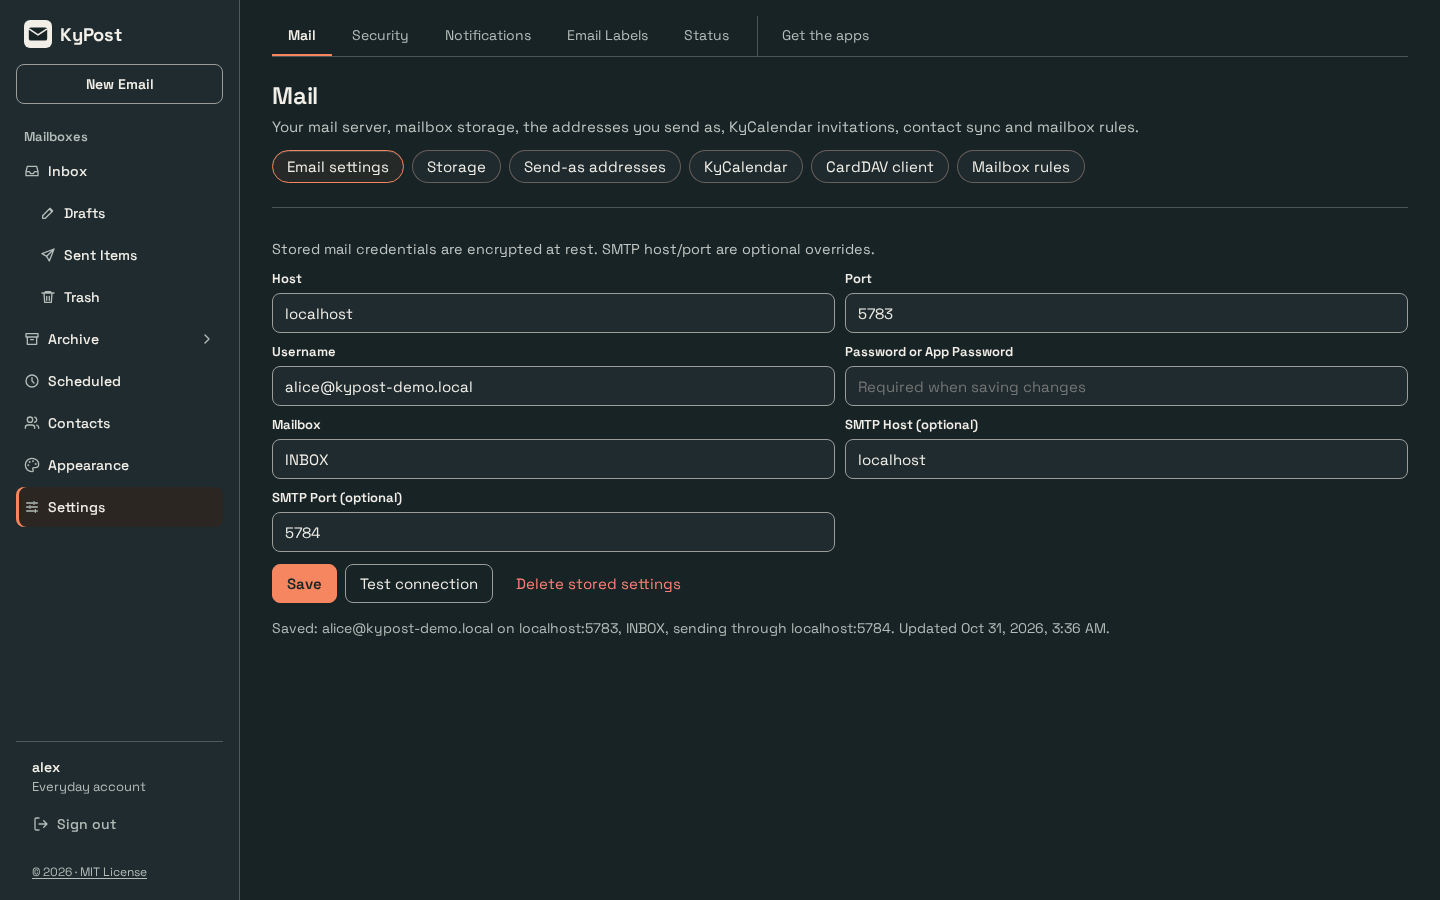
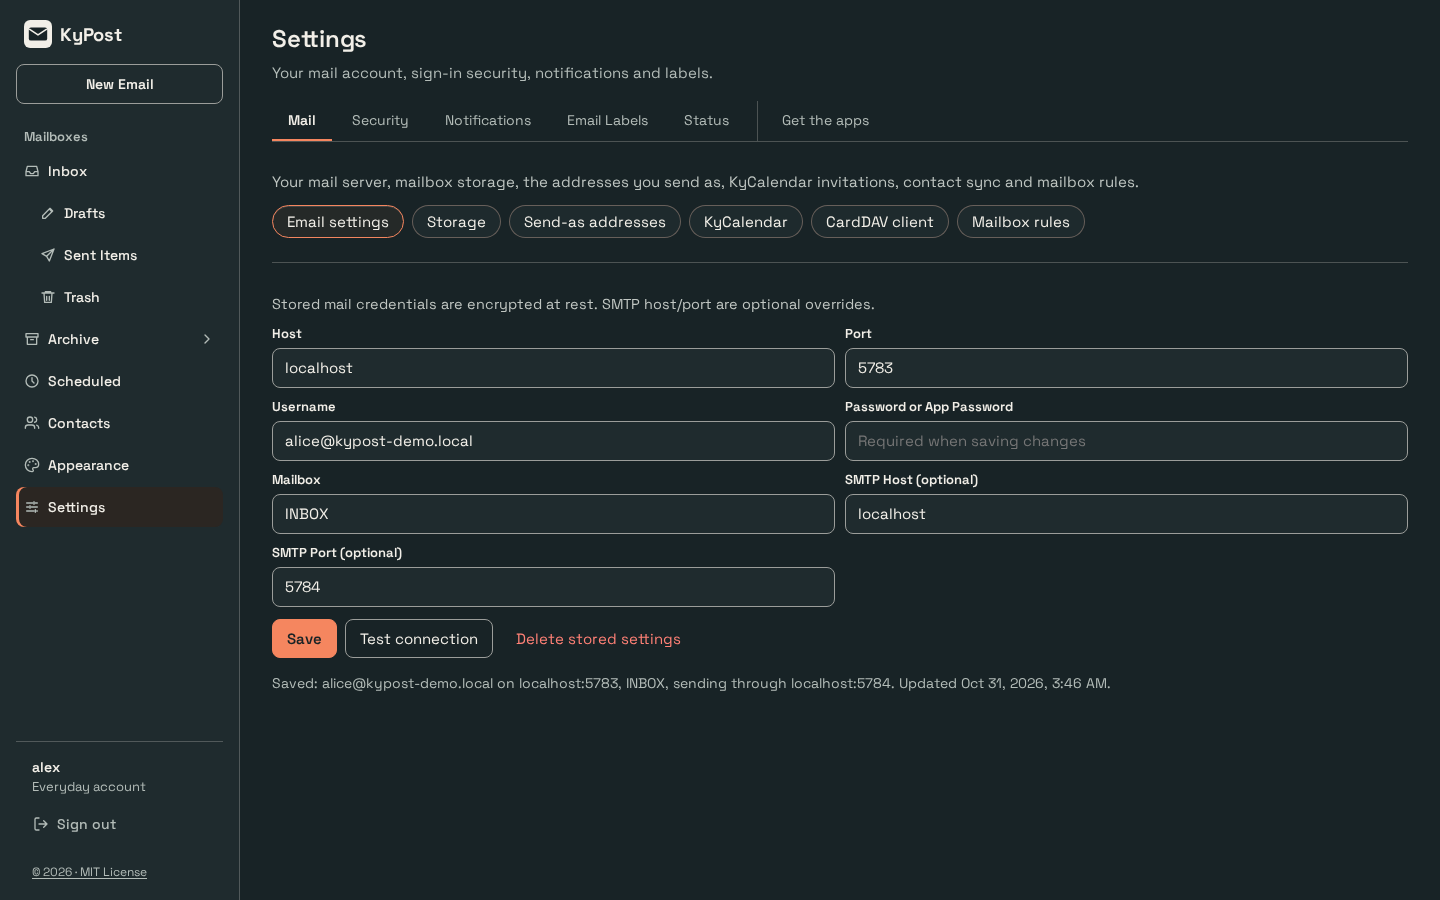
fix(ui): Settings opens with the shared page head
"Settings" and one line sit at the top like every page, then the
section tabs, then the panel. Panels name themselves with a visually
hidden h2, so "Mail" is no longer repeated. The reader's "Sender"
label drops its colon. Recaptured.

Changed region(s): [[0.1875, 0.0311, 0.7812, 0.7778], [0.5625, 0.0311, 0.5938, 0.0622]]

diff --git a/frontend/src/App.tsx b/frontend/src/App.tsx
@@ -518,13 +518,21 @@ export function App() {
     return element;
   }
 
-  // Settings is one page: its sections are one row of tabs at the top of the
-  // content, above the open panel, so the sidebar stays the only side column.
+  // Settings is one page: the shared page head, then its sections as one row of
+  // tabs above the open panel, so the sidebar stays the only side column.
   // On phones the row scrolls and also carries the licence line, which the
   // phone header hides.
   function settingsPage(panel: ReactElement) {
     return (
       <div className="settings-layout">
+        <header className="ky-page-head">
+          <div>
+            <h1 className="ky-page-title">Settings</h1>
+            <p className="ky-page-lede">
+              {isAdmin ? "Your mail account, sign-in security and notifications, and this server." : "Your mail account, sign-in security, notifications and labels."}
+            </p>
+          </div>
+        </header>
         <nav className="settings-sections" aria-label="Settings" onClickCapture={guardNavigation}>
           {visibleSettingsGroups(isAdmin).map((group) => (
             <div key={group.heading ?? "settings"} className="settings-section-group">

diff --git a/frontend/src/styles.css b/frontend/src/styles.css
@@ -1125,7 +1125,7 @@ pre {
 
 .health-head {
   display: flex;
-  justify-content: space-between;
+  justify-content: flex-end;
   align-items: center;
   gap: 12px;
   flex-wrap: wrap;
@@ -5543,12 +5543,12 @@ html:root:not([data-theme]):not([data-ky-theme]) {
 }
 
 /* Settings: one page; its sections are one row of tabs above the open panel. */
+.settings-layout > .ky-page-head { margin: 0; padding: var(--ky-space-4) var(--ky-space-5) 0; margin-bottom: var(--ky-space-3); }
 .settings-sections {
   display: flex;
   align-items: stretch;
   gap: var(--ky-space-1);
   margin: 0 var(--ky-space-5);
-  padding-top: var(--ky-space-3);
   border-bottom: 1px solid var(--line);
   overflow-x: auto;
   scrollbar-width: none;
@@ -5572,7 +5572,8 @@ html:root:not([data-theme]):not([data-ky-theme]) {
 .settings-about .ky-license-link { margin: 0; }
 @media (max-width: 900px) {
   .settings-layout { display: flex; flex-direction: column; overflow-y: auto; }
-  .settings-layout > .settings-sections { flex: none; margin: 0 var(--ky-space-3); }
+  .settings-layout > .ky-page-head { padding: 10px 10px 0; }
+  .settings-layout > .settings-sections { flex: none; margin: 0 10px; }
   .settings-about { display: block; }
 }
 

diff --git a/frontend/src/settings/sections/SystemHealth.tsx b/frontend/src/settings/sections/SystemHealth.tsx
@@ -8,11 +8,7 @@ export type SystemHealthProps = {
    * Presentational only — the server enforces both regardless of what this says.
    */
   full?: boolean;
-  /**
-   * The panel's own title. It lives inside `.health-head`, which is a
-   * space-between flex row, so it cannot simply be dropped: without it the
-   * controls collapse to the left.
-   */
+  /** The panel's title, for screen readers: the Settings tab names it on screen. */
   heading?: string;
 };
 
@@ -270,7 +266,7 @@ export function SystemHealth({ full = false, heading = "Health Dashboard" }: Sys
   return (
     <>
       <div className="health-head">
-        <h1>{heading}</h1>
+        <h2 className="visually-hidden">{heading}</h2>
         <div className="health-controls">
           <label>
             <span>Auto-refresh</span>

diff --git a/frontend/src/components/ReauthGate.tsx b/frontend/src/components/ReauthGate.tsx
@@ -130,7 +130,7 @@ export function ReauthGate({ what, children }: Props) {
     return (
       <section className="panel sec-page">
         <header className="sec-header">
-          <h1>Confirm it is you</h1>
+          <h2>Confirm it is you</h2>
           <p>Unlock {what}.</p>
         </header>
         <div className="sec-card">
@@ -158,7 +158,7 @@ export function ReauthGate({ what, children }: Props) {
     // rather than as a stray form the app dropped the user on.
     <section className="panel sec-page">
       <header className="sec-header">
-        <h1>Confirm it is you</h1>
+        <h2>Confirm it is you</h2>
         <p>Unlock {what}.</p>
       </header>
       <div className="sec-card">

diff --git a/frontend/src/pages/ReadPage.tsx b/frontend/src/pages/ReadPage.tsx
@@ -1915,7 +1915,7 @@ export function ReadPage({ onOpenDraft, onCompose }: ReadPageProps) {
                 );
               })()}
               <div className="email-reader-facts email-reader-from">
-                <p><strong>Sender:</strong><span className="email-reader-sender">{selected.sender || "-"}</span></p>
+                <p><strong>Sender</strong><span className="email-reader-sender">{selected.sender || "-"}</span></p>
                 <time dateTime={selected.atUtc}>{formatReaderTime(selected.atUtc)}</time>
               </div>
               <details className="email-reader-details">

diff --git a/frontend/src/settings/sections/SystemHealth.test.tsx b/frontend/src/settings/sections/SystemHealth.test.tsx
@@ -447,11 +447,11 @@ describe("SystemHealth admin controls", () => {
     await screen.findByText("Client Address");
   });
 
-  it("titles itself from the caller, since the heading anchors a space-between row", async () => {
+  it("titles itself from the caller for screen readers; the Settings tab names it on screen", async () => {
     mockEndpoints();
     render(<SystemHealth full={false} heading="Status" />);
 
     const heading = await screen.findByRole("heading", { name: "Status" });
-    expect(heading.tagName).toBe("H1");
+    expect(heading.tagName).toBe("H2");
   });
 });

diff --git a/frontend/src/pages/AppsPage.tsx b/frontend/src/pages/AppsPage.tsx
@@ -16,7 +16,7 @@ export function AppsPage({ pwa, platforms = CLIENT_PLATFORMS }: { pwa: PwaState;
   return (
     <section className="panel config-page">
       <div className="config-header">
-        <h1>Get KyPost</h1>
+        <h2 className="visually-hidden">Get KyPost</h2>
         <p>Use it here in the browser, or install a client on each of your devices.</p>
       </div>
       <div className="apps-grid">

diff --git a/frontend/src/pages/settings/NotificationsPanel.tsx b/frontend/src/pages/settings/NotificationsPanel.tsx
@@ -4,7 +4,7 @@ export function NotificationsPanel() {
   return (
     <section className="panel">
       <div className="config-header">
-        <h1>Notifications</h1>
+        <h2 className="visually-hidden">Notifications</h2>
         <p>How and when this device tells you about new mail.</p>
       </div>
       <div id="notification-prefs"><NotificationPrefs /></div>

diff --git a/frontend/src/pages/settings/MailPanel.tsx b/frontend/src/pages/settings/MailPanel.tsx
@@ -20,7 +20,7 @@ export function MailPanel() {
   return (
     <section className="panel">
       <div className="config-header">
-        <h1>Mail</h1>
+        <h2 className="visually-hidden">Mail</h2>
         <p>Your mail server, mailbox storage, the addresses you send as, KyCalendar invitations, contact sync and mailbox rules.</p>
       </div>
       <PanelTabs

diff --git a/frontend/src/pages/SecurityPage.tsx b/frontend/src/pages/SecurityPage.tsx
@@ -200,7 +200,7 @@ export function SecurityPage() {
   return (
     <section className="panel sec-page">
       <header className="sec-header">
-        <h1>Security</h1>
+        <h2 className="visually-hidden">Security</h2>
         <p>Who can sign in as you, which devices you trust, and who can read your mail.</p>
       </header>
 

diff --git a/frontend/src/pages/admin/ServerPanel.tsx b/frontend/src/pages/admin/ServerPanel.tsx
@@ -28,7 +28,7 @@ export function ServerPanel() {
   return (
     <section className="panel">
       <div className="config-header">
-        <h1>Server</h1>
+        <h2 className="visually-hidden">Server</h2>
         <p>Runtime behaviour, updates, verified mail domains, and user accounts.</p>
       </div>
       <PanelTabs

diff --git a/frontend/src/pages/settings/AutomationPanel.tsx b/frontend/src/pages/settings/AutomationPanel.tsx
@@ -17,7 +17,7 @@ export function AutomationPanel() {
   return (
     <section className="panel">
       <div className="config-header">
-        <h1>Email Labels</h1>
+        <h2 className="visually-hidden">Email Labels</h2>
         <p>How your mail is classified and labelled.</p>
       </div>
       <PanelTabs
